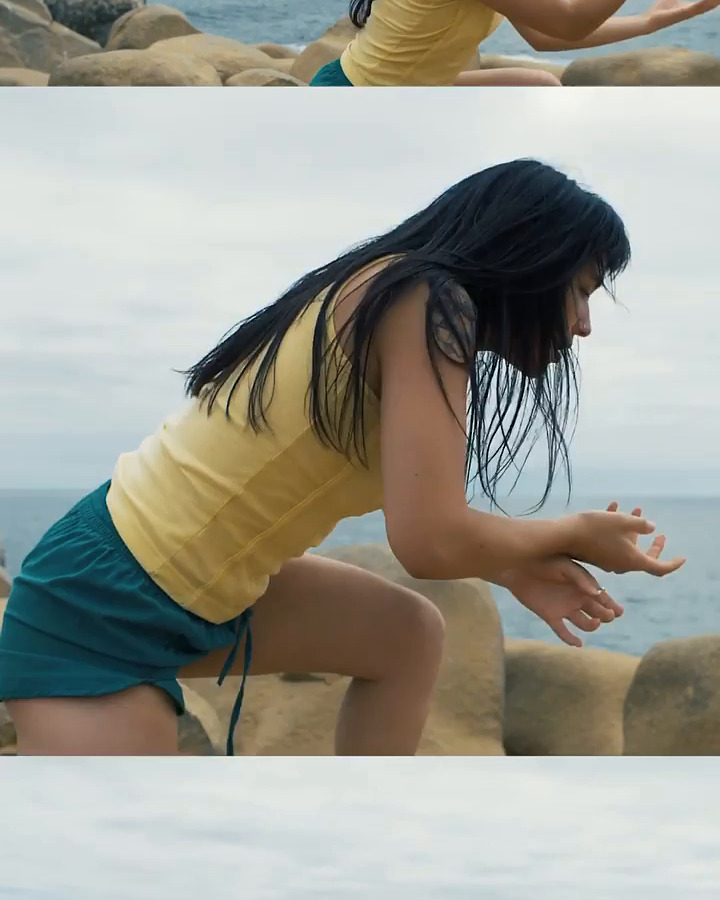
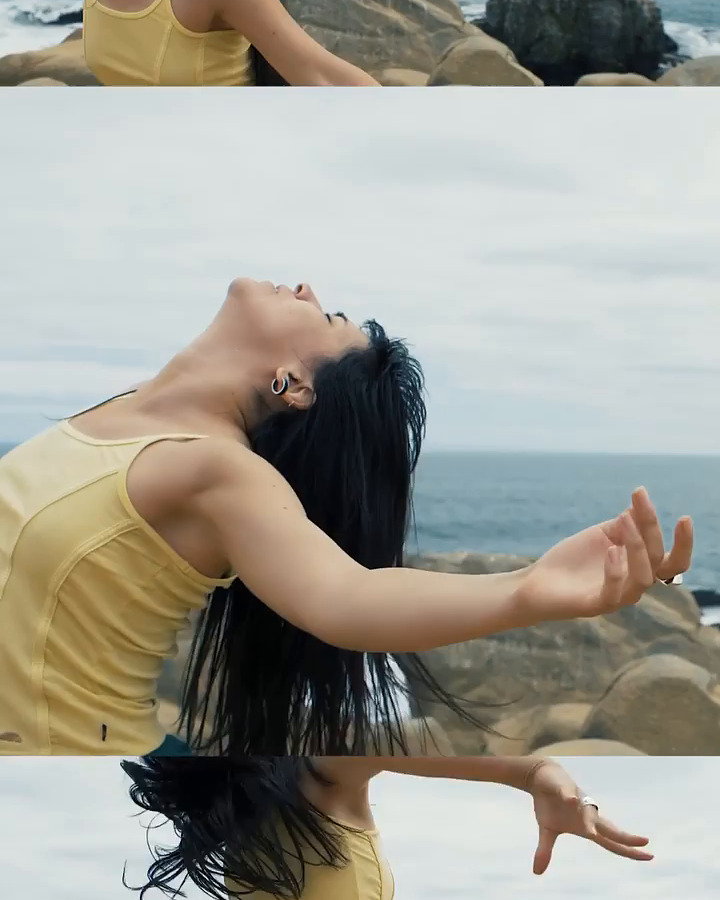
The Session: videos de Marlie y Nina en la pagina y portadas corregidas
- Marlie y Nina se reproducen dentro de su portada, sin ir a YouTube.
- Slide: Marlie, Nina y Matilde en su imagen horizontal entera; las
  sesiones verticales con tres fotos distintas juntas.
- Portadas nuevas: Catalina Fernanda (la anterior estaba movida),
  Catalina Matus en primer plano, Simona Lanza, Nahua, Cristina Vol y
  Amaranta.

diff --git a/de/the-session/index.html b/de/the-session/index.html
@@ -19,7 +19,7 @@
 <link rel="preconnect" href="https://fonts.googleapis.com">
 <link rel="preconnect" href="https://fonts.gstatic.com" crossorigin>
 <link href="https://fonts.googleapis.com/css2?family=Jost:ital,wght@0,200;0,300;0,400;0,500;0,700;1,300&display=swap" rel="stylesheet">
-<link rel="stylesheet" href="../../style.css?v=105">
+<link rel="stylesheet" href="../../style.css?v=106">
 <link rel="alternate" hreflang="en" href="https://deusexmachinafilms.art/the-session/">
 <link rel="alternate" hreflang="de" href="https://deusexmachinafilms.art/de/the-session/">
 <link rel="alternate" hreflang="x-default" href="https://deusexmachinafilms.art/the-session/">
@@ -74,10 +74,11 @@
     <div class="ses-paso">
       <div class="ses-fondos">
         <img src="../../img/session/marlie-encuentro.jpg" alt="A real person. A real place. A camera. Time. Presence." loading="lazy" width="1920" height="1080">
+        <img src="../../img/session/nina-02.jpg" alt="" loading="lazy">
+        <img src="../../img/session/s/matilde-slide.jpg?v=1" alt="" loading="lazy">
         <img src="../../img/session/s/shanghai-slide.jpg?v=1" alt="" loading="lazy">
         <img src="../../img/session/s/paulina-matus-slide.jpg?v=1" alt="" loading="lazy">
         <img src="../../img/session/s/catalina-matus-slide.jpg?v=1" alt="" loading="lazy">
-        <img src="../../img/session/s/matilde-slide.jpg?v=1" alt="" loading="lazy">
         <img src="../../img/session/s/fer-molteni-slide.jpg?v=1" alt="" loading="lazy">
         <img src="../../img/session/s/alejandra-parga-slide.jpg?v=1" alt="" loading="lazy">
         <img src="../../img/session/s/simona-lanza-slide.jpg?v=1" alt="" loading="lazy">
@@ -128,14 +129,14 @@
        =============================================== -->
   <p class="ses-rotulo" style="padding-top:clamp(40px,6vw,70px)">Die Sessions</p>
   <div class="ses-grilla horizontales">
-    <a class="ses-celda" href="https://www.youtube.com/watch?v=gX9evYfyFUc" target="_blank" rel="noopener">
+    <div class="ses-celda ratio" data-video="gX9evYfyFUc" data-titulo="The Session — Marlie, Amsterdam">
       <img src="../../img/session/p/marlie.jpg?v=1" alt="Marlie, Amsterdam" loading="lazy">
       <span class="ses-celda-txt"><span class="lugar">Amsterdam</span><span class="nombre">Marlie</span></span>
-    </a>
-    <a class="ses-celda" href="https://www.youtube.com/watch?v=tFNeAQiZg58" target="_blank" rel="noopener">
+    </div>
+    <div class="ses-celda ratio" data-video="tFNeAQiZg58" data-titulo="The Session — Nina, Valdivia">
       <img src="../../img/session/p/nina.jpg?v=1" alt="Nina, Valdivia" loading="lazy">
       <span class="ses-celda-txt"><span class="lugar">Valdivia</span><span class="nombre">Nina</span></span>
-    </a>
+    </div>
     <a class="ses-celda" href="https://www.instagram.com/reel/C2qe4YzO25V/" target="_blank" rel="noopener">
       <img src="../../img/session/p/matilde.jpg?v=1" alt="Matilde, Valparaíso" loading="lazy">
       <span class="ses-celda-txt"><span class="lugar">Valparaíso</span><span class="nombre">Matilde</span></span>
@@ -151,7 +152,7 @@
       <span class="ses-celda-txt"><span class="lugar">Colchagua</span><span class="nombre">Paulina Matus</span></span>
     </a>
     <a class="ses-celda" href="https://www.instagram.com/reel/C6Wa2C7ukXr/" target="_blank" rel="noopener">
-      <img src="../../img/session/p/catalina-matus.jpg?v=1" alt="Catalina Matus, Valparaíso" loading="lazy">
+      <img src="../../img/session/p/catalina-matus.jpg?v=2" alt="Catalina Matus, Valparaíso" loading="lazy">
       <span class="ses-celda-txt"><span class="lugar">Valparaíso</span><span class="nombre">Catalina Matus</span></span>
     </a>
     <a class="ses-celda" href="https://www.instagram.com/reel/C2arcH9OW-m/" target="_blank" rel="noopener">
@@ -163,11 +164,11 @@
       <span class="ses-celda-txt"><span class="lugar">Valparaíso</span><span class="nombre">Alejandra Parga</span></span>
     </a>
     <a class="ses-celda" href="https://www.instagram.com/reel/CvFsKySMfKL/" target="_blank" rel="noopener">
-      <img src="../../img/session/p/simona-lanza.jpg?v=1" alt="Simona Lanza, Valparaíso" loading="lazy">
+      <img src="../../img/session/p/simona-lanza.jpg?v=2" alt="Simona Lanza, Valparaíso" loading="lazy">
       <span class="ses-celda-txt"><span class="lugar">Valparaíso</span><span class="nombre">Simona Lanza</span></span>
     </a>
     <a class="ses-celda" href="https://www.instagram.com/reel/Cu5XC_VOKSU/" target="_blank" rel="noopener">
-      <img src="../../img/session/p/nahua.jpg?v=1" alt="Nahua, Valparaíso" loading="lazy">
+      <img src="../../img/session/p/nahua.jpg?v=2" alt="Nahua, Valparaíso" loading="lazy">
       <span class="ses-celda-txt"><span class="lugar">Valparaíso</span><span class="nombre">Nahua</span></span>
     </a>
     <a class="ses-celda" href="https://www.instagram.com/reel/CnwvFZThcL9/" target="_blank" rel="noopener">
@@ -179,11 +180,11 @@
       <span class="ses-celda-txt"><span class="lugar">Lima</span><span class="nombre">mundomoebio</span></span>
     </a>
     <a class="ses-celda" href="https://www.instagram.com/reel/Cg0jnm7vTeH/" target="_blank" rel="noopener">
-      <img src="../../img/session/p/cristina-vol.jpg?v=1" alt="Cristina Vol, Pichilemu" loading="lazy">
+      <img src="../../img/session/p/cristina-vol.jpg?v=2" alt="Cristina Vol, Pichilemu" loading="lazy">
       <span class="ses-celda-txt"><span class="lugar">Pichilemu</span><span class="nombre">Cristina Vol</span></span>
     </a>
     <a class="ses-celda" href="https://www.instagram.com/reel/CZP-PzjNf-6/" target="_blank" rel="noopener">
-      <img src="../../img/session/p/amaranta.jpg?v=1" alt="Amaranta, Puerto Natales" loading="lazy">
+      <img src="../../img/session/p/amaranta.jpg?v=2" alt="Amaranta, Puerto Natales" loading="lazy">
       <span class="ses-celda-txt"><span class="lugar">Puerto Natales</span><span class="nombre">Amaranta</span></span>
     </a>
     <a class="ses-celda" href="https://www.instagram.com/reel/CY5nv87tP-S/" target="_blank" rel="noopener">
@@ -191,7 +192,7 @@
       <span class="ses-celda-txt"><span class="lugar">Valdivia</span><span class="nombre">Javiera Carromatto</span></span>
     </a>
     <a class="ses-celda" href="https://www.instagram.com/reel/Cup1K_xNmGS/" target="_blank" rel="noopener">
-      <img src="../../img/session/p/catalina-fernanda.jpg?v=1" alt="Catalina Fernanda, Viña del Mar" loading="lazy">
+      <img src="../../img/session/p/catalina-fernanda.jpg?v=2" alt="Catalina Fernanda, Viña del Mar" loading="lazy">
       <span class="ses-celda-txt"><span class="lugar">Viña del Mar</span><span class="nombre">Catalina Fernanda</span></span>
     </a>
   </div>
@@ -205,7 +206,7 @@
 </main>
 
 <footer>© <span id="year">2026</span> dEUSeXmACHINA Films — Chile · Österreich</footer>
-<script src="../../traduccion.js?v=105"></script>
-<script src="../../script.js?v=105"></script>
+<script src="../../traduccion.js?v=106"></script>
+<script src="../../script.js?v=106"></script>
 </body>
 </html>

diff --git a/the-session/index.html b/the-session/index.html
@@ -19,7 +19,7 @@
 <link rel="preconnect" href="https://fonts.googleapis.com">
 <link rel="preconnect" href="https://fonts.gstatic.com" crossorigin>
 <link href="https://fonts.googleapis.com/css2?family=Jost:ital,wght@0,200;0,300;0,400;0,500;0,700;1,300&display=swap" rel="stylesheet">
-<link rel="stylesheet" href="../style.css?v=105">
+<link rel="stylesheet" href="../style.css?v=106">
 <link rel="alternate" hreflang="en" href="https://deusexmachinafilms.art/the-session/">
 <link rel="alternate" hreflang="de" href="https://deusexmachinafilms.art/de/the-session/">
 <link rel="alternate" hreflang="x-default" href="https://deusexmachinafilms.art/the-session/">
@@ -73,10 +73,11 @@
     <div class="ses-paso">
       <div class="ses-fondos">
         <img src="../img/session/marlie-encuentro.jpg" alt="A real person. A real place. A camera. Time. Presence." loading="lazy" width="1920" height="1080">
+        <img src="../img/session/nina-02.jpg" alt="" loading="lazy">
+        <img src="../img/session/s/matilde-slide.jpg?v=1" alt="" loading="lazy">
         <img src="../img/session/s/shanghai-slide.jpg?v=1" alt="" loading="lazy">
         <img src="../img/session/s/paulina-matus-slide.jpg?v=1" alt="" loading="lazy">
         <img src="../img/session/s/catalina-matus-slide.jpg?v=1" alt="" loading="lazy">
-        <img src="../img/session/s/matilde-slide.jpg?v=1" alt="" loading="lazy">
         <img src="../img/session/s/fer-molteni-slide.jpg?v=1" alt="" loading="lazy">
         <img src="../img/session/s/alejandra-parga-slide.jpg?v=1" alt="" loading="lazy">
         <img src="../img/session/s/simona-lanza-slide.jpg?v=1" alt="" loading="lazy">
@@ -127,14 +128,14 @@
        =============================================== -->
   <p class="ses-rotulo" style="padding-top:clamp(40px,6vw,70px)">The sessions</p>
   <div class="ses-grilla horizontales">
-    <a class="ses-celda" href="https://www.youtube.com/watch?v=gX9evYfyFUc" target="_blank" rel="noopener">
+    <div class="ses-celda ratio" data-video="gX9evYfyFUc" data-titulo="The Session — Marlie, Amsterdam">
       <img src="../img/session/p/marlie.jpg?v=1" alt="Marlie, Amsterdam" loading="lazy">
       <span class="ses-celda-txt"><span class="lugar">Amsterdam</span><span class="nombre">Marlie</span></span>
-    </a>
-    <a class="ses-celda" href="https://www.youtube.com/watch?v=tFNeAQiZg58" target="_blank" rel="noopener">
+    </div>
+    <div class="ses-celda ratio" data-video="tFNeAQiZg58" data-titulo="The Session — Nina, Valdivia">
       <img src="../img/session/p/nina.jpg?v=1" alt="Nina, Valdivia" loading="lazy">
       <span class="ses-celda-txt"><span class="lugar">Valdivia</span><span class="nombre">Nina</span></span>
-    </a>
+    </div>
     <a class="ses-celda" href="https://www.instagram.com/reel/C2qe4YzO25V/" target="_blank" rel="noopener">
       <img src="../img/session/p/matilde.jpg?v=1" alt="Matilde, Valparaíso" loading="lazy">
       <span class="ses-celda-txt"><span class="lugar">Valparaíso</span><span class="nombre">Matilde</span></span>
@@ -150,7 +151,7 @@
       <span class="ses-celda-txt"><span class="lugar">Colchagua</span><span class="nombre">Paulina Matus</span></span>
     </a>
     <a class="ses-celda" href="https://www.instagram.com/reel/C6Wa2C7ukXr/" target="_blank" rel="noopener">
-      <img src="../img/session/p/catalina-matus.jpg?v=1" alt="Catalina Matus, Valparaíso" loading="lazy">
+      <img src="../img/session/p/catalina-matus.jpg?v=2" alt="Catalina Matus, Valparaíso" loading="lazy">
       <span class="ses-celda-txt"><span class="lugar">Valparaíso</span><span class="nombre">Catalina Matus</span></span>
     </a>
     <a class="ses-celda" href="https://www.instagram.com/reel/C2arcH9OW-m/" target="_blank" rel="noopener">
@@ -162,11 +163,11 @@
       <span class="ses-celda-txt"><span class="lugar">Valparaíso</span><span class="nombre">Alejandra Parga</span></span>
     </a>
     <a class="ses-celda" href="https://www.instagram.com/reel/CvFsKySMfKL/" target="_blank" rel="noopener">
-      <img src="../img/session/p/simona-lanza.jpg?v=1" alt="Simona Lanza, Valparaíso" loading="lazy">
+      <img src="../img/session/p/simona-lanza.jpg?v=2" alt="Simona Lanza, Valparaíso" loading="lazy">
       <span class="ses-celda-txt"><span class="lugar">Valparaíso</span><span class="nombre">Simona Lanza</span></span>
     </a>
     <a class="ses-celda" href="https://www.instagram.com/reel/Cu5XC_VOKSU/" target="_blank" rel="noopener">
-      <img src="../img/session/p/nahua.jpg?v=1" alt="Nahua, Valparaíso" loading="lazy">
+      <img src="../img/session/p/nahua.jpg?v=2" alt="Nahua, Valparaíso" loading="lazy">
       <span class="ses-celda-txt"><span class="lugar">Valparaíso</span><span class="nombre">Nahua</span></span>
     </a>
     <a class="ses-celda" href="https://www.instagram.com/reel/CnwvFZThcL9/" target="_blank" rel="noopener">
@@ -178,11 +179,11 @@
       <span class="ses-celda-txt"><span class="lugar">Lima</span><span class="nombre">mundomoebio</span></span>
     </a>
     <a class="ses-celda" href="https://www.instagram.com/reel/Cg0jnm7vTeH/" target="_blank" rel="noopener">
-      <img src="../img/session/p/cristina-vol.jpg?v=1" alt="Cristina Vol, Pichilemu" loading="lazy">
+      <img src="../img/session/p/cristina-vol.jpg?v=2" alt="Cristina Vol, Pichilemu" loading="lazy">
       <span class="ses-celda-txt"><span class="lugar">Pichilemu</span><span class="nombre">Cristina Vol</span></span>
     </a>
     <a class="ses-celda" href="https://www.instagram.com/reel/CZP-PzjNf-6/" target="_blank" rel="noopener">
-      <img src="../img/session/p/amaranta.jpg?v=1" alt="Amaranta, Puerto Natales" loading="lazy">
+      <img src="../img/session/p/amaranta.jpg?v=2" alt="Amaranta, Puerto Natales" loading="lazy">
       <span class="ses-celda-txt"><span class="lugar">Puerto Natales</span><span class="nombre">Amaranta</span></span>
     </a>
     <a class="ses-celda" href="https://www.instagram.com/reel/CY5nv87tP-S/" target="_blank" rel="noopener">
@@ -190,7 +191,7 @@
       <span class="ses-celda-txt"><span class="lugar">Valdivia</span><span class="nombre">Javiera Carromatto</span></span>
     </a>
     <a class="ses-celda" href="https://www.instagram.com/reel/Cup1K_xNmGS/" target="_blank" rel="noopener">
-      <img src="../img/session/p/catalina-fernanda.jpg?v=1" alt="Catalina Fernanda, Viña del Mar" loading="lazy">
+      <img src="../img/session/p/catalina-fernanda.jpg?v=2" alt="Catalina Fernanda, Viña del Mar" loading="lazy">
       <span class="ses-celda-txt"><span class="lugar">Viña del Mar</span><span class="nombre">Catalina Fernanda</span></span>
     </a>
   </div>
@@ -204,7 +205,7 @@
 </main>
 
 <footer>© <span id="year">2026</span> dEUSeXmACHINA Films — Chile · Austria</footer>
-<script src="../traduccion.js?v=105"></script>
-<script src="../script.js?v=105"></script>
+<script src="../traduccion.js?v=106"></script>
+<script src="../script.js?v=106"></script>
 </body>
 </html>

diff --git a/de/short-films/index.html b/de/short-films/index.html
@@ -14,7 +14,7 @@
 <link rel="preconnect" href="https://fonts.googleapis.com">
 <link rel="preconnect" href="https://fonts.gstatic.com" crossorigin>
 <link href="https://fonts.googleapis.com/css2?family=Jost:ital,wght@0,200;0,300;0,400;0,500;0,700;1,300&display=swap" rel="stylesheet">
-<link rel="stylesheet" href="../../style.css?v=105">
+<link rel="stylesheet" href="../../style.css?v=106">
 <script type="application/ld+json">[{"@type": "VideoObject", "name": "The Heart Is Not a Bomb", "description": "A group of rebels crosses through the building of the Ministry of Culture of Chile, while the former Minister Paulina Urrutia gives voice to a reflection on the function of art in society, suggesting that the artistic phenomenon allows us to recognize ourselves and activate a powerful internal force capable of transforming reality", "thumbnailUrl": "https://deusexmachinafilms.art/img/corazon.jpg", "uploadDate": "2025-11-27", "embedUrl": "https://www.youtube.com/embed/NNtd6buiv-U", "url": "https://deusexmachinafilms.art/de/short-films/#corazon", "publisher": {"@type": "Organization", "name": "dEUSeXmACHINA films", "url": "https://deusexmachinafilms.art/"}, "director": {"@type": "Person", "name": "Felipe Díaz Galarce"}, "inLanguage": "es", "duration": "PT14M44S"}, {"@type": "VideoObject", "name": "Explorers of La Redonda", "description": "In the small town of Puerto Octay, in southern Chile, every morning the students of La Redonda School begin their day with meditation. Their desire to learn through play and imagination leads them to create a magic potion that transports them to a natural sanctuary.", "thumbnailUrl": "https://deusexmachinafilms.art/img/exploradores.jpg", "uploadDate": "2025-03-03", "embedUrl": "https://www.youtube.com/embed/zlJKGHxcm4c", "url": "https://deusexmachinafilms.art/de/short-films/#exploradores", "publisher": {"@type": "Organization", "name": "dEUSeXmACHINA films", "url": "https://deusexmachinafilms.art/"}, "director": {"@type": "Person", "name": "Felipe Díaz Galarce"}, "inLanguage": "es", "duration": "PT9M6S"}, {"@type": "VideoObject", "name": "To Dwell", "description": "MORAR is an invitation to stay, to remain and to allow what is already happening to pass through us. We allow ourselves to be moved by the sacred, by the whispering silence of mystery; and then, the question arises, how much distance is there between Nature and us? Does it even exist?…", "thumbnailUrl": "https://deusexmachinafilms.art/img/morar.jpg", "uploadDate": "2025-02-24", "embedUrl": "https://www.youtube.com/embed/IFP798ZNQTM", "url": "https://deusexmachinafilms.art/de/short-films/#morar", "publisher": {"@type": "Organization", "name": "dEUSeXmACHINA films", "url": "https://deusexmachinafilms.art/"}, "director": {"@type": "Person", "name": "Felipe Díaz Galarce"}, "inLanguage": "es", "duration": "PT7M53S"}, {"@type": "VideoObject", "name": "Ahora Somos Nosotres", "description": "Three dancers awaken to new surroundings and venture into unknown territory among the natural and historic landmarks of the island of Chiloé, in southern Chile: a journey to find home, accompanied by the music of Pájaros Kiltros.", "thumbnailUrl": "https://deusexmachinafilms.art/img/nosotres.jpg", "uploadDate": "2023-02-14", "embedUrl": "https://player.vimeo.com/video/798903970", "url": "https://deusexmachinafilms.art/de/short-films/#ahora-somos-nosotres", "publisher": {"@type": "Organization", "name": "dEUSeXmACHINA films", "url": "https://deusexmachinafilms.art/"}, "director": {"@type": "Person", "name": "Felipe Díaz Galarce"}, "inLanguage": "es", "duration": "PT9M56S"}, {"@type": "VideoObject", "name": "Ecdysis: Actions for Shedding Skin. Liquefy", "description": "Short essay film about human transformation in the digital age. Recorded during the Covid 19 pandemic in Valdivia and Valparaiso, Chile, the film presents a group of humans dancing in nature and the city. They are the result of the virtual experiment of a group of stage researchers who sought to approach the ecdysis and metamorphosis of insects, as a metaphor for the profound cultural transformation of society by integrating virtuality into everyday life, a questioning of the notion of presence. The voice-over of the process of how a butterfly is born intersects with another voice asking a series of questions about who we are and how we participate in society", "thumbnailUrl": "https://deusexmachinafilms.art/img/licuar.jpg", "uploadDate": "2025-03-03", "embedUrl": "https://www.youtube.com/embed/FqOBFxX5uBc", "url": "https://deusexmachinafilms.art/de/short-films/#ecdisis-licuar", "publisher": {"@type": "Organization", "name": "dEUSeXmACHINA films", "url": "https://deusexmachinafilms.art/"}, "director": {"@type": "Person", "name": "Felipe Díaz Galarce"}, "inLanguage": "es", "duration": "PT9M19S"}, {"@type": "VideoObject", "name": "Escape", "description": "This documentary-style dance piece invites us to reflect on and address the dangers of free market capitalism, corrupt leadership, and COVID as a response to social revolution.", "thumbnailUrl": "https://deusexmachinafilms.art/img/escape.jpg", "uploadDate": "2025-03-03", "embedUrl": "https://www.youtube.com/embed/EfCxbCzm9sE", "url": "https://deusexmachinafilms.art/de/short-films/#escape", "publisher": {"@type": "Organization", "name": "dEUSeXmACHINA films", "url": "https://deusexmachinafilms.art/"}, "director": {"@type": "Person", "name": "Felipe Díaz Galarce"}, "inLanguage": "es", "duration": "PT14M18S"}, {"@type": "VideoObject", "name": "misoginia Pandora", "description": "Pandora is trapped in the city, she wants to free herself from the Box of All Evils. Pandora reflects on consumer society, she decides to break the normal course of the spaces where goods are traded, her weapon is her body, her dance.", "thumbnailUrl": "https://deusexmachinafilms.art/img/pandora.jpg", "uploadDate": "2025-03-03", "embedUrl": "https://www.youtube.com/embed/5uiqnHk1Ly8", "url": "https://deusexmachinafilms.art/de/short-films/#pandora", "publisher": {"@type": "Organization", "name": "dEUSeXmACHINA films", "url": "https://deusexmachinafilms.art/"}, "director": {"@type": "Person", "name": "Felipe Díaz Galarce"}, "inLanguage": "es", "duration": "PT4M46S"}]</script>
 <link rel="alternate" hreflang="en" href="https://deusexmachinafilms.art/short-films/">
 <link rel="alternate" hreflang="de" href="https://deusexmachinafilms.art/de/short-films/">
@@ -205,7 +205,7 @@
 </main>
 
 <footer>© <span id="year">2026</span> dEUSeXmACHINA Films — Chile · Österreich</footer>
-<script src="../../traduccion.js?v=105"></script>
-<script src="../../script.js?v=105"></script>
+<script src="../../traduccion.js?v=106"></script>
+<script src="../../script.js?v=106"></script>
 </body>
 </html>

diff --git a/short-films/index.html b/short-films/index.html
@@ -14,7 +14,7 @@
 <link rel="preconnect" href="https://fonts.googleapis.com">
 <link rel="preconnect" href="https://fonts.gstatic.com" crossorigin>
 <link href="https://fonts.googleapis.com/css2?family=Jost:ital,wght@0,200;0,300;0,400;0,500;0,700;1,300&display=swap" rel="stylesheet">
-<link rel="stylesheet" href="../style.css?v=105">
+<link rel="stylesheet" href="../style.css?v=106">
 <script type="application/ld+json">[{"@type": "VideoObject", "name": "The Heart Is Not a Bomb", "description": "A group of rebels crosses through the building of the Ministry of Culture of Chile, while the former Minister Paulina Urrutia gives voice to a reflection on the function of art in society, suggesting that the artistic phenomenon allows us to recognize ourselves and activate a powerful internal force capable of transforming reality", "thumbnailUrl": "https://deusexmachinafilms.art/img/corazon.jpg", "uploadDate": "2025-11-27", "embedUrl": "https://www.youtube.com/embed/NNtd6buiv-U", "url": "https://deusexmachinafilms.art/short-films/#corazon", "publisher": {"@type": "Organization", "name": "dEUSeXmACHINA films", "url": "https://deusexmachinafilms.art/"}, "director": {"@type": "Person", "name": "Felipe Díaz Galarce"}, "inLanguage": "es", "duration": "PT14M44S"}, {"@type": "VideoObject", "name": "Explorers of La Redonda", "description": "In the small town of Puerto Octay, in southern Chile, every morning the students of La Redonda School begin their day with meditation. Their desire to learn through play and imagination leads them to create a magic potion that transports them to a natural sanctuary.", "thumbnailUrl": "https://deusexmachinafilms.art/img/exploradores.jpg", "uploadDate": "2025-03-03", "embedUrl": "https://www.youtube.com/embed/zlJKGHxcm4c", "url": "https://deusexmachinafilms.art/short-films/#exploradores", "publisher": {"@type": "Organization", "name": "dEUSeXmACHINA films", "url": "https://deusexmachinafilms.art/"}, "director": {"@type": "Person", "name": "Felipe Díaz Galarce"}, "inLanguage": "es", "duration": "PT9M6S"}, {"@type": "VideoObject", "name": "To Dwell", "description": "MORAR is an invitation to stay, to remain and to allow what is already happening to pass through us. We allow ourselves to be moved by the sacred, by the whispering silence of mystery; and then, the question arises, how much distance is there between Nature and us? Does it even exist?…", "thumbnailUrl": "https://deusexmachinafilms.art/img/morar.jpg", "uploadDate": "2025-02-24", "embedUrl": "https://www.youtube.com/embed/IFP798ZNQTM", "url": "https://deusexmachinafilms.art/short-films/#morar", "publisher": {"@type": "Organization", "name": "dEUSeXmACHINA films", "url": "https://deusexmachinafilms.art/"}, "director": {"@type": "Person", "name": "Felipe Díaz Galarce"}, "inLanguage": "es", "duration": "PT7M53S"}, {"@type": "VideoObject", "name": "Ahora Somos Nosotres", "description": "Three dancers awaken to new surroundings and venture into unknown territory among the natural and historic landmarks of the island of Chiloé, in southern Chile: a journey to find home, accompanied by the music of Pájaros Kiltros.", "thumbnailUrl": "https://deusexmachinafilms.art/img/nosotres.jpg", "uploadDate": "2023-02-14", "embedUrl": "https://player.vimeo.com/video/798903970", "url": "https://deusexmachinafilms.art/short-films/#ahora-somos-nosotres", "publisher": {"@type": "Organization", "name": "dEUSeXmACHINA films", "url": "https://deusexmachinafilms.art/"}, "director": {"@type": "Person", "name": "Felipe Díaz Galarce"}, "inLanguage": "es", "duration": "PT9M56S"}, {"@type": "VideoObject", "name": "Ecdysis: Actions for Shedding Skin. Liquefy", "description": "Short essay film about human transformation in the digital age. Recorded during the Covid 19 pandemic in Valdivia and Valparaiso, Chile, the film presents a group of humans dancing in nature and the city. They are the result of the virtual experiment of a group of stage researchers who sought to approach the ecdysis and metamorphosis of insects, as a metaphor for the profound cultural transformation of society by integrating virtuality into everyday life, a questioning of the notion of presence. The voice-over of the process of how a butterfly is born intersects with another voice asking a series of questions about who we are and how we participate in society", "thumbnailUrl": "https://deusexmachinafilms.art/img/licuar.jpg", "uploadDate": "2025-03-03", "embedUrl": "https://www.youtube.com/embed/FqOBFxX5uBc", "url": "https://deusexmachinafilms.art/short-films/#ecdisis-licuar", "publisher": {"@type": "Organization", "name": "dEUSeXmACHINA films", "url": "https://deusexmachinafilms.art/"}, "director": {"@type": "Person", "name": "Felipe Díaz Galarce"}, "inLanguage": "es", "duration": "PT9M19S"}, {"@type": "VideoObject", "name": "Escape", "description": "This documentary-style dance piece invites us to reflect on and address the dangers of free market capitalism, corrupt leadership, and COVID as a response to social revolution.", "thumbnailUrl": "https://deusexmachinafilms.art/img/escape.jpg", "uploadDate": "2025-03-03", "embedUrl": "https://www.youtube.com/embed/EfCxbCzm9sE", "url": "https://deusexmachinafilms.art/short-films/#escape", "publisher": {"@type": "Organization", "name": "dEUSeXmACHINA films", "url": "https://deusexmachinafilms.art/"}, "director": {"@type": "Person", "name": "Felipe Díaz Galarce"}, "inLanguage": "es", "duration": "PT14M18S"}, {"@type": "VideoObject", "name": "misoginia Pandora", "description": "Pandora is trapped in the city, she wants to free herself from the Box of All Evils. Pandora reflects on consumer society, she decides to break the normal course of the spaces where goods are traded, her weapon is her body, her dance.", "thumbnailUrl": "https://deusexmachinafilms.art/img/pandora.jpg", "uploadDate": "2025-03-03", "embedUrl": "https://www.youtube.com/embed/5uiqnHk1Ly8", "url": "https://deusexmachinafilms.art/short-films/#pandora", "publisher": {"@type": "Organization", "name": "dEUSeXmACHINA films", "url": "https://deusexmachinafilms.art/"}, "director": {"@type": "Person", "name": "Felipe Díaz Galarce"}, "inLanguage": "es", "duration": "PT4M46S"}]</script>
 <link rel="alternate" hreflang="en" href="https://deusexmachinafilms.art/short-films/">
 <link rel="alternate" hreflang="de" href="https://deusexmachinafilms.art/de/short-films/">
@@ -204,7 +204,7 @@
 </main>
 
 <footer>© <span id="year">2026</span> dEUSeXmACHINA Films — Chile · Austria</footer>
-<script src="../traduccion.js?v=105"></script>
-<script src="../script.js?v=105"></script>
+<script src="../traduccion.js?v=106"></script>
+<script src="../script.js?v=106"></script>
 </body>
 </html>

diff --git a/style.css b/style.css
@@ -553,7 +553,7 @@ body.session main > section{padding:0;}
    La primera imagen queda siempre debajo; las demas aparecen encima por turno. */
 .ses-fondos{position:relative;}
 .ses-fondos img + img{position:absolute; inset:0; height:100%; opacity:0; filter:brightness(.88);
-  animation:ses-fondo 45s linear infinite;}
+  animation:ses-fondo 48s linear infinite;}
 .ses-fondos img:nth-child(2){animation-delay:3s;}
 .ses-fondos img:nth-child(3){animation-delay:6s;}
 .ses-fondos img:nth-child(4){animation-delay:9s;}
@@ -568,8 +568,9 @@ body.session main > section{padding:0;}
 .ses-fondos img:nth-child(13){animation-delay:36s;}
 .ses-fondos img:nth-child(14){animation-delay:39s;}
 .ses-fondos img:nth-child(15){animation-delay:42s;}
+.ses-fondos img:nth-child(16){animation-delay:45s;}
 @keyframes ses-fondo{
-  0%{opacity:0;} 1.4%{opacity:1;} 6.7%{opacity:1;} 8%{opacity:0;} 100%{opacity:0;}
+  0%{opacity:0;} 1.25%{opacity:1;} 6.25%{opacity:1;} 7.50%{opacity:0;} 100%{opacity:0;}
 }
 @media (prefers-reduced-motion:reduce){ .ses-fondos img + img{animation:none; opacity:0;} }
 .ses-paso .rotulo{

diff --git a/de/work-in-progress/index.html b/de/work-in-progress/index.html
@@ -14,7 +14,7 @@
 <link rel="preconnect" href="https://fonts.googleapis.com">
 <link rel="preconnect" href="https://fonts.gstatic.com" crossorigin>
 <link href="https://fonts.googleapis.com/css2?family=Jost:ital,wght@0,200;0,300;0,400;0,500;0,700;1,300&display=swap" rel="stylesheet">
-<link rel="stylesheet" href="../../style.css?v=105">
+<link rel="stylesheet" href="../../style.css?v=106">
 <link rel="alternate" hreflang="en" href="https://deusexmachinafilms.art/work-in-progress/">
 <link rel="alternate" hreflang="de" href="https://deusexmachinafilms.art/de/work-in-progress/">
 <link rel="alternate" hreflang="x-default" href="https://deusexmachinafilms.art/work-in-progress/">
@@ -134,7 +134,7 @@
 </main>
 
 <footer>© <span id="year">2026</span> dEUSeXmACHINA Films — Chile · Österreich</footer>
-<script src="../../traduccion.js?v=105"></script>
-<script src="../../script.js?v=105"></script>
+<script src="../../traduccion.js?v=106"></script>
+<script src="../../script.js?v=106"></script>
 </body>
 </html>

diff --git a/de/collaborations/index.html b/de/collaborations/index.html
@@ -14,7 +14,7 @@
 <link rel="preconnect" href="https://fonts.googleapis.com">
 <link rel="preconnect" href="https://fonts.gstatic.com" crossorigin>
 <link href="https://fonts.googleapis.com/css2?family=Jost:ital,wght@0,200;0,300;0,400;0,500;0,700;1,300&display=swap" rel="stylesheet">
-<link rel="stylesheet" href="../../style.css?v=105">
+<link rel="stylesheet" href="../../style.css?v=106">
 <link rel="alternate" hreflang="en" href="https://deusexmachinafilms.art/collaborations/">
 <link rel="alternate" hreflang="de" href="https://deusexmachinafilms.art/de/collaborations/">
 <link rel="alternate" hreflang="x-default" href="https://deusexmachinafilms.art/collaborations/">
@@ -187,7 +187,7 @@
 </main>
 
 <footer>© <span id="year">2026</span> dEUSeXmACHINA Films — Chile · Österreich</footer>
-<script src="../../traduccion.js?v=105"></script>
-<script src="../../script.js?v=105"></script>
+<script src="../../traduccion.js?v=106"></script>
+<script src="../../script.js?v=106"></script>
 </body>
 </html>

diff --git a/de/music-video/index.html b/de/music-video/index.html
@@ -14,7 +14,7 @@
 <link rel="preconnect" href="https://fonts.googleapis.com">
 <link rel="preconnect" href="https://fonts.gstatic.com" crossorigin>
 <link href="https://fonts.googleapis.com/css2?family=Jost:ital,wght@0,200;0,300;0,400;0,500;0,700;1,300&display=swap" rel="stylesheet">
-<link rel="stylesheet" href="../../style.css?v=105">
+<link rel="stylesheet" href="../../style.css?v=106">
 <link rel="alternate" hreflang="en" href="https://deusexmachinafilms.art/music-video/">
 <link rel="alternate" hreflang="de" href="https://deusexmachinafilms.art/de/music-video/">
 <link rel="alternate" hreflang="x-default" href="https://deusexmachinafilms.art/music-video/">
@@ -118,7 +118,7 @@
 </main>
 
 <footer>© <span id="year">2026</span> dEUSeXmACHINA Films — Chile · Österreich</footer>
-<script src="../../traduccion.js?v=105"></script>
-<script src="../../script.js?v=105"></script>
+<script src="../../traduccion.js?v=106"></script>
+<script src="../../script.js?v=106"></script>
 </body>
 </html>

diff --git a/work-in-progress/index.html b/work-in-progress/index.html
@@ -14,7 +14,7 @@
 <link rel="preconnect" href="https://fonts.googleapis.com">
 <link rel="preconnect" href="https://fonts.gstatic.com" crossorigin>
 <link href="https://fonts.googleapis.com/css2?family=Jost:ital,wght@0,200;0,300;0,400;0,500;0,700;1,300&display=swap" rel="stylesheet">
-<link rel="stylesheet" href="../style.css?v=105">
+<link rel="stylesheet" href="../style.css?v=106">
 <link rel="alternate" hreflang="en" href="https://deusexmachinafilms.art/work-in-progress/">
 <link rel="alternate" hreflang="de" href="https://deusexmachinafilms.art/de/work-in-progress/">
 <link rel="alternate" hreflang="x-default" href="https://deusexmachinafilms.art/work-in-progress/">
@@ -133,7 +133,7 @@
 </main>
 
 <footer>© <span id="year">2026</span> dEUSeXmACHINA Films — Chile · Austria</footer>
-<script src="../traduccion.js?v=105"></script>
-<script src="../script.js?v=105"></script>
+<script src="../traduccion.js?v=106"></script>
+<script src="../script.js?v=106"></script>
 </body>
 </html>

diff --git a/de/about-us/index.html b/de/about-us/index.html
@@ -14,7 +14,7 @@
 <link rel="preconnect" href="https://fonts.googleapis.com">
 <link rel="preconnect" href="https://fonts.gstatic.com" crossorigin>
 <link href="https://fonts.googleapis.com/css2?family=Jost:ital,wght@0,200;0,300;0,400;0,500;0,700;1,300&display=swap" rel="stylesheet">
-<link rel="stylesheet" href="../../style.css?v=105">
+<link rel="stylesheet" href="../../style.css?v=106">
 <link rel="alternate" hreflang="en" href="https://deusexmachinafilms.art/about-us/">
 <link rel="alternate" hreflang="de" href="https://deusexmachinafilms.art/de/about-us/">
 <link rel="alternate" hreflang="x-default" href="https://deusexmachinafilms.art/about-us/">
@@ -101,7 +101,7 @@
 </main>
 
 <footer>© <span id="year">2026</span> dEUSeXmACHINA Films — Chile · Österreich</footer>
-<script src="../../traduccion.js?v=105"></script>
-<script src="../../script.js?v=105"></script>
+<script src="../../traduccion.js?v=106"></script>
+<script src="../../script.js?v=106"></script>
 </body>
 </html>

diff --git a/de/contacts/index.html b/de/contacts/index.html
@@ -14,7 +14,7 @@
 <link rel="preconnect" href="https://fonts.googleapis.com">
 <link rel="preconnect" href="https://fonts.gstatic.com" crossorigin>
 <link href="https://fonts.googleapis.com/css2?family=Jost:ital,wght@0,200;0,300;0,400;0,500;0,700;1,300&display=swap" rel="stylesheet">
-<link rel="stylesheet" href="../../style.css?v=105">
+<link rel="stylesheet" href="../../style.css?v=106">
 <link rel="alternate" hreflang="en" href="https://deusexmachinafilms.art/contacts/">
 <link rel="alternate" hreflang="de" href="https://deusexmachinafilms.art/de/contacts/">
 <link rel="alternate" hreflang="x-default" href="https://deusexmachinafilms.art/contacts/">
@@ -57,7 +57,7 @@
 </main>
 
 <footer>© <span id="year">2026</span> dEUSeXmACHINA Films — Chile · Österreich</footer>
-<script src="../../traduccion.js?v=105"></script>
-<script src="../../script.js?v=105"></script>
+<script src="../../traduccion.js?v=106"></script>
+<script src="../../script.js?v=106"></script>
 </body>
 </html>

diff --git a/collaborations/index.html b/collaborations/index.html
@@ -14,7 +14,7 @@
 <link rel="preconnect" href="https://fonts.googleapis.com">
 <link rel="preconnect" href="https://fonts.gstatic.com" crossorigin>
 <link href="https://fonts.googleapis.com/css2?family=Jost:ital,wght@0,200;0,300;0,400;0,500;0,700;1,300&display=swap" rel="stylesheet">
-<link rel="stylesheet" href="../style.css?v=105">
+<link rel="stylesheet" href="../style.css?v=106">
 <link rel="alternate" hreflang="en" href="https://deusexmachinafilms.art/collaborations/">
 <link rel="alternate" hreflang="de" href="https://deusexmachinafilms.art/de/collaborations/">
 <link rel="alternate" hreflang="x-default" href="https://deusexmachinafilms.art/collaborations/">
@@ -186,7 +186,7 @@
 </main>
 
 <footer>© <span id="year">2026</span> dEUSeXmACHINA Films — Chile · Austria</footer>
-<script src="../traduccion.js?v=105"></script>
-<script src="../script.js?v=105"></script>
+<script src="../traduccion.js?v=106"></script>
+<script src="../script.js?v=106"></script>
 </body>
 </html>
